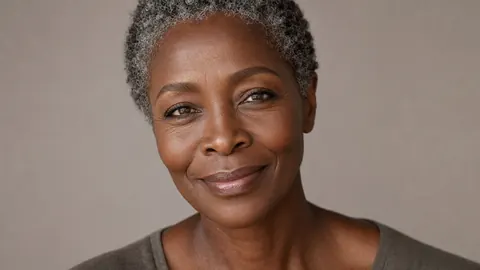
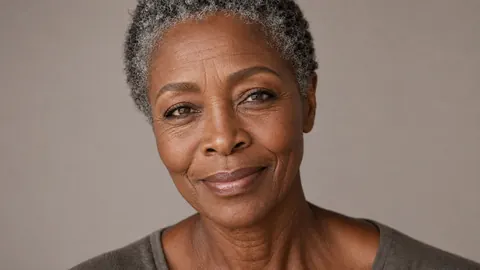
version2.1

diff --git a/assets/css/site.css b/assets/css/site.css
@@ -3,7 +3,7 @@
 .site-header{position:fixed;z-index:1000;inset:0 0 auto;background:linear-gradient(rgba(31,18,12,.82),transparent);color:#fff;transition:.25s}.site-header.scrolled{background:rgba(43,26,18,.97);box-shadow:0 4px 20px rgba(0,0,0,.18)}.header-inner{min-height:84px;display:flex;align-items:center;gap:2rem}.brand{display:flex;min-width:86px;flex-direction:column;align-items:center;text-decoration:none;line-height:1;color:var(--gold)}.brand-main{font:600 1.45rem var(--serif);letter-spacing:.16em}.brand-sub{margin-top:.35rem;font:.72rem var(--serif);font-style:italic;letter-spacing:.28em}.main-nav{display:flex;gap:1.8rem;margin-left:auto}.main-nav a{text-decoration:none;font-size:.78rem;letter-spacing:.12em;text-transform:uppercase}.main-nav a:hover,.main-nav a[aria-current="page"]{color:#eccd95}.menu-toggle{display:none;background:transparent;border:0;padding:.5rem}.menu-toggle span:not(.sr-only){display:block;width:25px;height:2px;margin:5px;background:#fff}
 .button{display:inline-flex;justify-content:center;align-items:center;min-height:48px;padding:.8rem 1.4rem;border:1px solid var(--gold);border-radius:2px;background:linear-gradient(135deg,#d5b274,var(--gold-dark));color:#28190f;font-size:.76rem;font-weight:700;letter-spacing:.12em;text-decoration:none;text-transform:uppercase;transition:.2s}.button:hover{transform:translateY(-2px);box-shadow:0 9px 24px rgba(155,117,65,.25)}.button:focus-visible,a:focus-visible,input:focus-visible,select:focus-visible,textarea:focus-visible,summary:focus-visible{outline:3px solid #e2a947;outline-offset:3px}.button-outline{background:transparent;color:var(--gold-dark)}.button-small{min-height:40px;padding:.55rem .9rem;font-size:.66rem}
 .hero{position:relative;min-height:760px;height:100svh;display:grid;align-items:end;color:#fff;background:var(--brown)}.hero-media,.hero-media img,.hero-shade{position:absolute;inset:0;width:100%;height:100%}.hero-media img{object-fit:cover}.hero-shade{background:linear-gradient(90deg,rgba(27,14,8,.88) 0%,rgba(34,20,13,.52) 56%,rgba(34,20,13,.18)),linear-gradient(0deg,rgba(25,13,8,.56),transparent 52%)}.hero-content{position:relative;z-index:1;padding-bottom:clamp(80px,11vh,130px);max-width:1180px}.hero-content h1{max-width:920px}.hero-content>p:not(.eyebrow){max-width:650px;font-size:1.1rem}.hero-emotion{font:italic clamp(1.25rem,2.5vw,1.7rem) var(--serif);color:#ead2aa}
-.split,.about-grid,.location-grid,.contact-grid,.article-grid{display:grid;grid-template-columns:1fr 1fr;gap:clamp(35px,7vw,90px);align-items:start}.intro{background:var(--paper)}.card-grid{display:grid;grid-template-columns:repeat(3,1fr);gap:1.4rem}.service-card{background:var(--paper);box-shadow:var(--shadow);overflow:hidden}.service-card img{width:100%;aspect-ratio:16/9;object-fit:cover}.card-body{padding:1.6rem}.card-actions{display:flex;align-items:center;justify-content:space-between;gap:1rem;margin-top:1.5rem}.text-link{color:var(--gold-dark);font-weight:700;text-decoration:none}.concerns{background:#efe6d9}.concern-grid{display:grid;grid-template-columns:repeat(2,1fr);gap:1rem}.concern-card{display:block;padding:2rem;background:rgba(255,255,255,.62);border:1px solid transparent;text-decoration:none;transition:.2s}.concern-card:hover{border-color:var(--gold);transform:translateY(-2px)}.concern-card span{color:var(--gold-dark);font-weight:700}.results{background:var(--brown);color:#fff}.result-grid{display:grid;grid-template-columns:1fr 1fr;max-width:900px;margin:auto;gap:1rem}.result-grid img{width:100%;aspect-ratio:1/1.06;object-fit:cover}.result-grid figcaption{text-align:center;margin-top:.6rem;color:#e7d6bb}.reviews{background:var(--paper)}.empty-state{margin-top:2rem;padding:2.2rem;border:1px solid var(--border);font:italic 1.3rem var(--serif)}.review-grid{display:grid;gap:1rem}.review-card{padding:2rem;background:var(--cream)}.about-grid{align-items:center}.about-grid picture img{width:100%;max-height:680px;object-fit:cover}.placeholder{border-left:3px solid var(--gold);padding:.7rem 1rem;background:#fff3d6;color:#5f4319;font-weight:600}.location{background:var(--paper)}address{font-style:normal;margin-bottom:1rem}.map-shell{min-height:400px;background:#e6dccf;display:grid;place-items:center}.map-placeholder{text-align:center;padding:3rem;max-width:480px}.map-shell iframe{width:100%;height:400px;border:0}.contact{background:#efe6d9}.contact-form{padding:clamp(1.5rem,4vw,3rem);background:var(--paper);box-shadow:var(--shadow)}.form-row{display:grid;gap:.35rem;margin-bottom:1rem}.form-two{display:grid;grid-template-columns:1fr 1fr;gap:1rem}fieldset{margin:0 0 1rem;padding:0;border:0}legend,label{font-weight:650}input,select,textarea{width:100%;border:1px solid #bcae9d;background:#fff;padding:.8rem;color:var(--ink)}.radio{display:inline-flex;align-items:center;margin:.5rem 1.2rem .4rem 0}.radio input,.privacy-check input{width:auto;margin-right:.5rem}.privacy-check{display:flex;align-items:flex-start;margin:1.2rem 0}.form-status{min-height:1.7em;font-weight:650}.faq details,.prose details{border-top:1px solid var(--border);padding:1.15rem 0}.faq details:last-child,.prose details:last-child{border-bottom:1px solid var(--border)}summary{cursor:pointer;font-weight:700}
+.split,.about-grid,.location-grid,.contact-grid,.article-grid{display:grid;grid-template-columns:1fr 1fr;gap:clamp(35px,7vw,90px);align-items:start}.intro{background:var(--paper)}.card-grid{display:grid;grid-template-columns:repeat(3,1fr);gap:1.4rem}.service-card{background:var(--paper);box-shadow:var(--shadow);overflow:hidden}.service-card img{width:100%;aspect-ratio:16/9;object-fit:cover}.card-body{padding:1.6rem}.card-actions{display:flex;align-items:center;justify-content:space-between;gap:1rem;margin-top:1.5rem}.text-link{color:var(--gold-dark);font-weight:700;text-decoration:none}.concerns{background:#efe6d9}.concern-grid{display:grid;grid-template-columns:repeat(2,1fr);gap:1rem}.concern-card{display:block;padding:2rem;background:rgba(255,255,255,.62);border:1px solid transparent;text-decoration:none;transition:.2s}.concern-card:hover{border-color:var(--gold);transform:translateY(-2px)}.concern-card span{color:var(--gold-dark);font-weight:700}.results{background:var(--brown);color:#fff}.result-grid{display:grid;grid-template-columns:1fr 1fr;max-width:900px;margin:auto;gap:1rem}.result-grid img{width:100%;aspect-ratio:1/1.06;object-fit:cover}.result-grid figcaption{text-align:center;margin-top:.6rem;color:#e7d6bb}.testimonials{background:var(--paper)}.empty-state{margin-top:2rem;padding:2.2rem;border:1px solid var(--border);font:italic 1.3rem var(--serif)}.testimonial-grid{display:grid;grid-template-columns:repeat(auto-fit,minmax(240px,1fr));gap:1rem;margin-top:2.5rem}.testimonial-card{display:grid;align-content:space-between;gap:1.5rem;margin:0;padding:2rem;background:var(--cream);text-align:left}.testimonial-card blockquote{margin:0;font:italic 1.15rem/1.7 var(--serif)}.testimonial-card figcaption{display:grid;gap:.15rem;color:var(--muted)}.testimonial-card figcaption strong{color:var(--ink)}.about-grid{align-items:center}.about-grid picture img{width:100%;max-height:680px;object-fit:cover}.placeholder{border-left:3px solid var(--gold);padding:.7rem 1rem;background:#fff3d6;color:#5f4319;font-weight:600}.location{background:var(--paper)}address{font-style:normal;margin-bottom:1rem}.map-shell{min-height:400px;background:#e6dccf;display:grid;place-items:center}.map-placeholder{text-align:center;padding:3rem;max-width:480px}.map-shell iframe{width:100%;height:400px;border:0}.contact{background:#efe6d9}.contact-form{padding:clamp(1.5rem,4vw,3rem);background:var(--paper);box-shadow:var(--shadow)}.form-row{display:grid;gap:.35rem;margin-bottom:1rem}.form-two{display:grid;grid-template-columns:1fr 1fr;gap:1rem}fieldset{margin:0 0 1rem;padding:0;border:0}legend,label{font-weight:650}input,select,textarea{width:100%;border:1px solid #bcae9d;background:#fff;padding:.8rem;color:var(--ink)}.radio{display:inline-flex;align-items:center;margin:.5rem 1.2rem .4rem 0}.radio input,.privacy-check input{width:auto;margin-right:.5rem}.privacy-check{display:flex;align-items:flex-start;margin:1.2rem 0}.form-status{min-height:1.7em;font-weight:650}.faq details,.prose details{border-top:1px solid var(--border);padding:1.15rem 0}.faq details:last-child,.prose details:last-child{border-bottom:1px solid var(--border)}summary{cursor:pointer;font-weight:700}
 .inner-hero{padding:160px 0 80px;background:linear-gradient(135deg,var(--brown),var(--brown-soft));color:#fff}.inner-hero.compact{padding-bottom:55px}.inner-hero h1{font-size:clamp(2.5rem,5vw,4.6rem)}.lead{font-size:1.15rem;color:#e9ded3}.breadcrumbs{margin-bottom:2.5rem;font-size:.83rem}.breadcrumbs ol{display:flex;flex-wrap:wrap;gap:.5rem;list-style:none;padding:0}.breadcrumbs li+li:before{content:"/";margin-right:.5rem;color:#c8ae86}.article-grid{padding-block:80px;grid-template-columns:minmax(0,1fr) 320px}.prose{padding-block:70px}.article-grid .prose{padding-block:0}.prose h2{margin-top:2.1rem;font-size:2rem}.prose ul{padding-left:1.25rem}.article-aside{position:sticky;top:110px;background:#fff;padding:1rem;box-shadow:var(--shadow)}.article-aside img{width:100%;aspect-ratio:16/9;object-fit:cover;margin-bottom:1rem}.technical-note{margin:2rem 0;padding:1.25rem;border-left:4px solid var(--gold);background:#efe6d9}.article-cta{margin:3rem 0;padding:clamp(1.6rem,5vw,3rem);background:var(--brown);color:#fff}.related-list{columns:2}.legal-copy .placeholder{display:block}.blog-grid{display:grid;grid-template-columns:repeat(3,1fr);gap:1rem}.blog-card{background:#fff;padding:1.5rem}
 .site-footer{padding:75px 0 20px;background:#21140f;color:#e7ded5}.footer-grid{display:grid;grid-template-columns:1.2fr 1fr 1fr;gap:3rem}.site-footer h2{font:700 .8rem var(--sans);letter-spacing:.16em;text-transform:uppercase;color:#d7b57e}.site-footer ul{list-style:none;padding:0}.site-footer a:hover{color:#eccd95}.footer-brand{align-items:flex-start;margin-bottom:1.2rem}.footer-bottom{display:flex;justify-content:space-between;gap:2rem;margin-top:2.5rem;padding-top:1.2rem;border-top:1px solid rgba(255,255,255,.12);font-size:.82rem;color:#b9aea6}
 @media(max-width:900px){.header-cta{display:none}.menu-toggle{display:block;margin-left:auto}.main-nav{position:absolute;top:84px;left:0;right:0;display:none;flex-direction:column;gap:0;padding:1rem 20px 1.5rem;background:var(--brown)}.main-nav.open{display:flex}.main-nav a{padding:.8rem}.card-grid{grid-template-columns:repeat(2,1fr)}.footer-grid{grid-template-columns:1fr 1fr}.article-grid{grid-template-columns:1fr}.article-aside{position:static;order:-1;margin-top:50px}.article-grid .prose{padding-bottom:70px}}
@@ -184,9 +184,13 @@
 .footer-contact-list svg{width:18px;height:18px;margin-top:.25rem;fill:none;stroke:#d7b57e;stroke-width:1.7;stroke-linecap:round;stroke-linejoin:round}
 .form-two>.form-row{min-width:0;grid-template-rows:minmax(3.4em,auto) auto}
 .form-two>.form-row>label{align-self:end}
+.faq summary,.prose details summary{position:relative;padding-right:2.25rem;list-style:none}
+.faq summary::-webkit-details-marker,.prose details summary::-webkit-details-marker{display:none}
+.faq summary::after,.prose details summary::after{content:"";position:absolute;top:50%;right:.35rem;width:.55rem;height:.55rem;border-right:2px solid var(--gold-dark);border-bottom:2px solid var(--gold-dark);transform:translateY(-70%) rotate(45deg);transition:transform .22s ease}
+.faq details[open]>summary::after,.prose details[open]>summary::after{transform:translateY(-30%) rotate(225deg)}
 @keyframes form-toast-in{from{opacity:0;transform:translateY(14px)}to{opacity:1;transform:translateY(0)}}
 @media (max-width:600px){.form-two>.form-row{grid-template-rows:auto auto}.form-toast{right:18px;bottom:90px}}
-@media (prefers-reduced-motion:reduce){.form-toast{animation:none}}
+@media (prefers-reduced-motion:reduce){.form-toast{animation:none}.faq summary::after,.prose details summary::after{transition:none}}
 .concern-card.service-card .card-body>.text-link{margin-top:auto}
 .concern-card.service-card .card-body>.text-link span{margin:0}
 @media(max-width:900px){

diff --git a/_includes/testimonials.html b/_includes/testimonials.html
@@ -1,0 +1,35 @@
+<section
+  class="section testimonials"
+  id="testemunhos"
+  aria-labelledby="testimonials-title"
+>
+  <div class="container narrow center">
+    <p class="eyebrow">Experiências reais</p>
+    <h2 id="testimonials-title">Testemunhos</h2>
+    <p>
+      Cada experiência é única. Aqui poderá conhecer a opinião de clientes que
+      confiaram na Ryca Beauty para cuidar da sua pele.
+    </p>
+    {% assign authorized_testimonials = site.data.testimonials | where:
+    "authorized", true %} {% if authorized_testimonials.size > 0 %}
+    <div class="testimonial-grid">
+      {% for testimonial in authorized_testimonials %}
+      <figure class="testimonial-card">
+        <blockquote>“{{ testimonial.text }}”</blockquote>
+        <figcaption>
+          <strong>{{ testimonial.name }}</strong>
+          {% if testimonial.service %}
+          <span>{{ testimonial.service }}</span>
+          {% endif %}
+        </figcaption>
+      </figure>
+      {% endfor %}
+    </div>
+    {% else %}
+    <p class="empty-state">
+      Em breve poderá conhecer experiências partilhadas por clientes da Ryca
+      Beauty.
+    </p>
+    {% endif %}
+  </div>
+</section>

diff --git a/assets/js/site.js b/assets/js/site.js
@@ -39,7 +39,7 @@ document.addEventListener("DOMContentLoaded", () => {
   });
 
   const revealItems = document.querySelectorAll(
-    ".section-heading, .service-card, .concern-card, .comparison-card, .gallery-item, .about-grid > *, .location-grid > *, .contact-grid > *, .faq details, .review-card, .empty-state"
+    ".section-heading, .service-card, .concern-card, .comparison-card, .gallery-item, .about-grid > *, .location-grid > *, .contact-grid > *, .faq details, .testimonial-card, .empty-state"
   );
   const reduceMotion = window.matchMedia("(prefers-reduced-motion: reduce)").matches;
   if (!reduceMotion && "IntersectionObserver" in window) {

diff --git a/_includes/seo-head.html b/_includes/seo-head.html
@@ -47,5 +47,5 @@ canonical = canonical_path | absolute_url %} {% assign social_image = page.image
 <meta name="twitter:image" content="{{ social_image }}" />
 <link
   rel="stylesheet"
-  href="{{ '/assets/css/site.css?v=20260730-4' | relative_url }}"
+  href="{{ '/assets/css/site.css?v=20260730-6' | relative_url }}"
 />

diff --git a/index.html b/index.html
@@ -384,7 +384,7 @@ permalink: /
   </div>
 </div>
 
-{% include reviews.html %}
+{% include testimonials.html %}
 
 <section class="section about" id="sobre">
   <div class="container about-grid">

diff --git a/tratamentos/dermaplaning-seixal.md b/tratamentos/dermaplaning-seixal.md
@@ -2,11 +2,11 @@
 layout: treatment
 title: Dermaplaning
 seo_title: Dermaplaning
-description: Conheça o dermaplaning, uma técnica de esfoliação superficial que remove células acumuladas e pelo fino do rosto.
+description: Conheça o dermaplaning, um procedimento estético que remove delicadamente células mortas da superfície da pele e a penugem facial.
 slug: dermaplaning-seixal
 section_name: Tratamentos
 section_url: /tratamentos/
-intro: Uma técnica de esfoliação superficial que remove células acumuladas e pelo fino, respeitando a sensibilidade da pele.
+intro: Um procedimento delicado que remove células mortas e penugem facial, respeitando as características e a sensibilidade da pele.
 image: /assets/images/tratamentos/dermaplaning-seixal.webp
 image_alt: Profissional a realizar dermaplaning facial
 faq:
@@ -18,7 +18,7 @@ faq:
 
 ## O que é
 
-O dermaplaning é uma esfoliação superficial que remove células acumuladas e pelo fino do rosto. É realizado com uma lâmina própria, através de movimentos suaves e controlados.
+O dermaplaning é um procedimento que remove delicadamente as células mortas acumuladas na camada mais superficial da pele e a penugem facial. É realizado com uma lâmina estéril específica, através de movimentos suaves e controlados.
 
 ## O que pode proporcionar
 

diff --git a/problemas/linhas-finas-e-envelhecimento.md b/problemas/linhas-finas-e-envelhecimento.md
@@ -6,7 +6,7 @@ description: Conheça sinais de envelhecimento da pele e os cuidados estéticos 
 section_name: Preocupações
 section_url: /problemas/
 image: /assets/images/problemas/linhas-finas-envelhecimento-v2.webp
-image_alt: Retrato de pele madura com linhas finas naturais junto aos olhos
+image_alt: Retrato de pele madura com linhas e sinais de envelhecimento visíveis
 intro: Linhas finas, alterações de textura e menor uniformidade podem tornar-se mais visíveis com o tempo.
 related_treatments:
   - hifu-facial-seixal

diff --git a/problemas/flacidez-facial.md b/problemas/flacidez-facial.md
@@ -6,7 +6,7 @@ description: Conheça os cuidados estéticos relacionados com a aparência de fl
 section_name: Preocupações
 section_url: /problemas/
 image: /assets/images/problemas/flacidez-facial-v2.webp
-image_alt: Perfil de rosto maduro com o contorno facial e o pescoço visíveis
+image_alt: Perfil de rosto maduro com flacidez visível no contorno facial e no pescoço
 intro: A firmeza da pele pode alterar-se com a idade, a exposição solar e as características individuais.
 related_treatments:
   - hifu-facial-seixal
